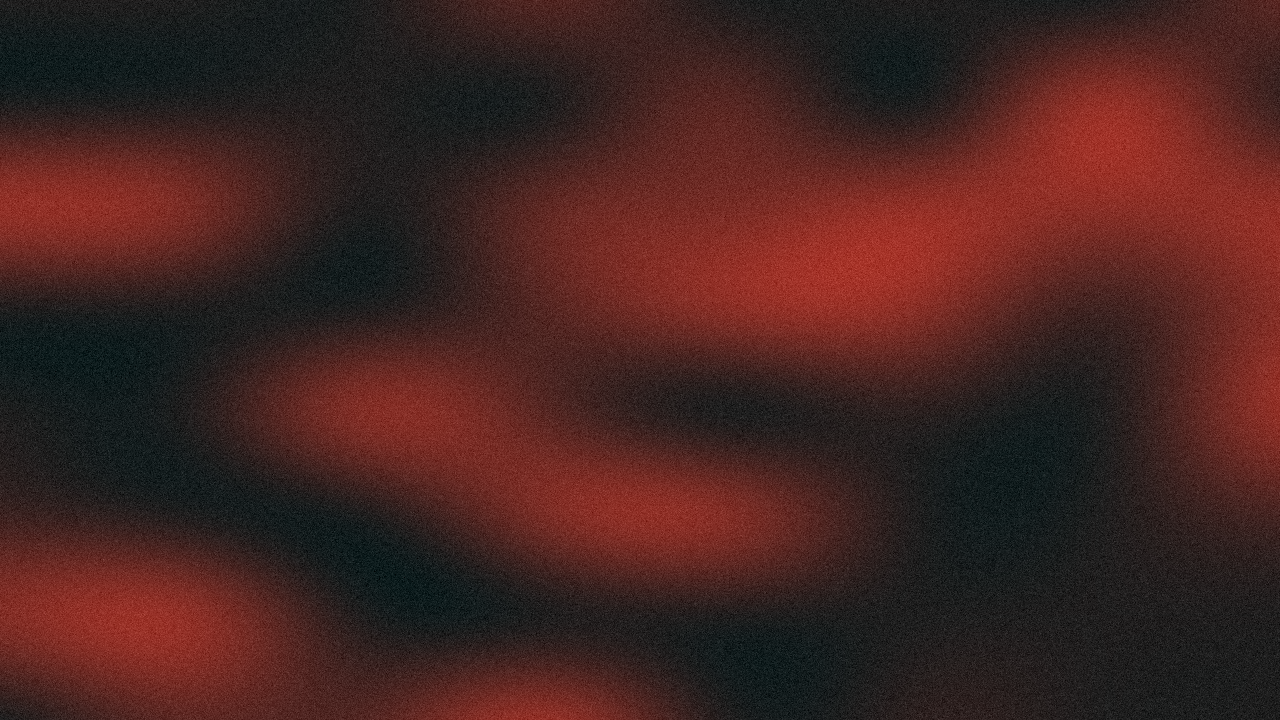
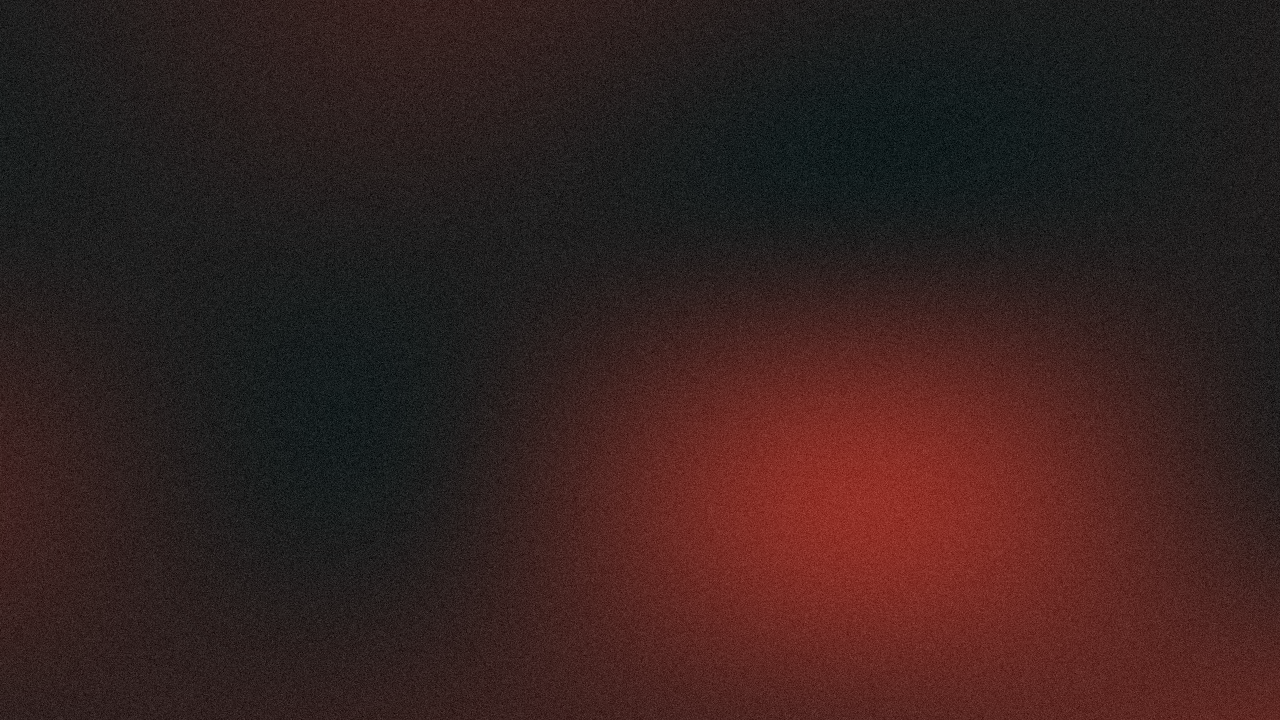
tune: lock red theme to seed 42 and complexity 4

diff --git a/README.md b/README.md
@@ -50,9 +50,9 @@ python main.py --colors #FF5000 --dots-mode alpha --dots-spacing 15
 
 #### 3. High-Contrast Red (Phone 2a Style)
 ```bash
-python main.py --theme red --noise 0.05 --dots 0.0 --complexity 8
+python main.py --theme red --noise 0.05 --dots 0.0 --complexity 4 --seed 42
 ```
-*Effect: Deep, complex red folds with heavy film grain to emphasize the "retro" display look.*
+*Effect: Deep, sweeping red and charcoal folds with heavy film grain to emphasize the "retro" display look.*
 
 ![Red Theme Sample](samples/red.png)
 
